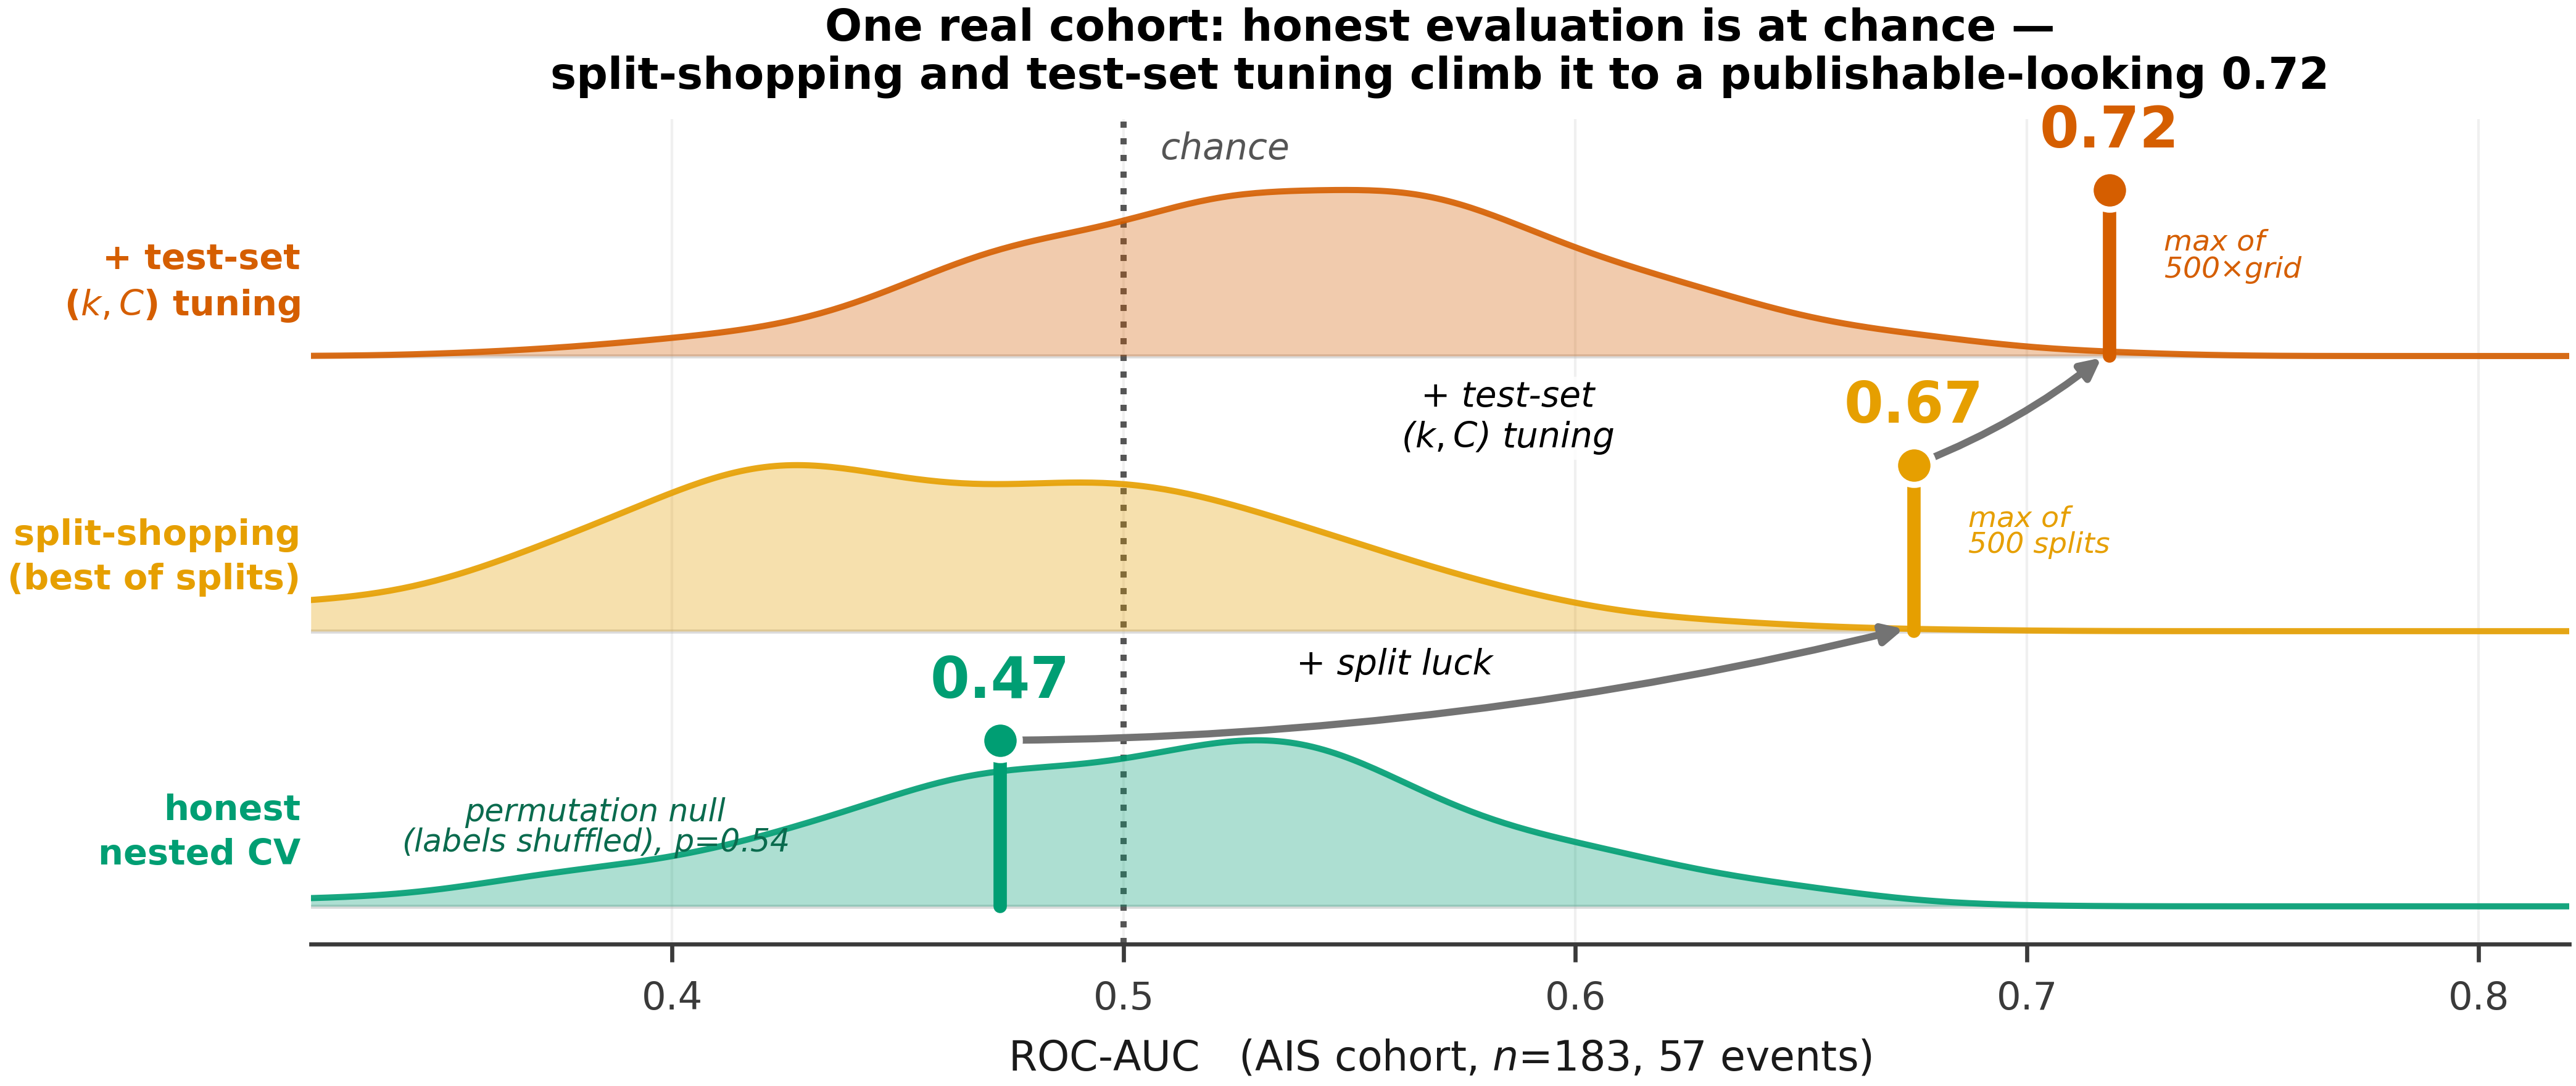
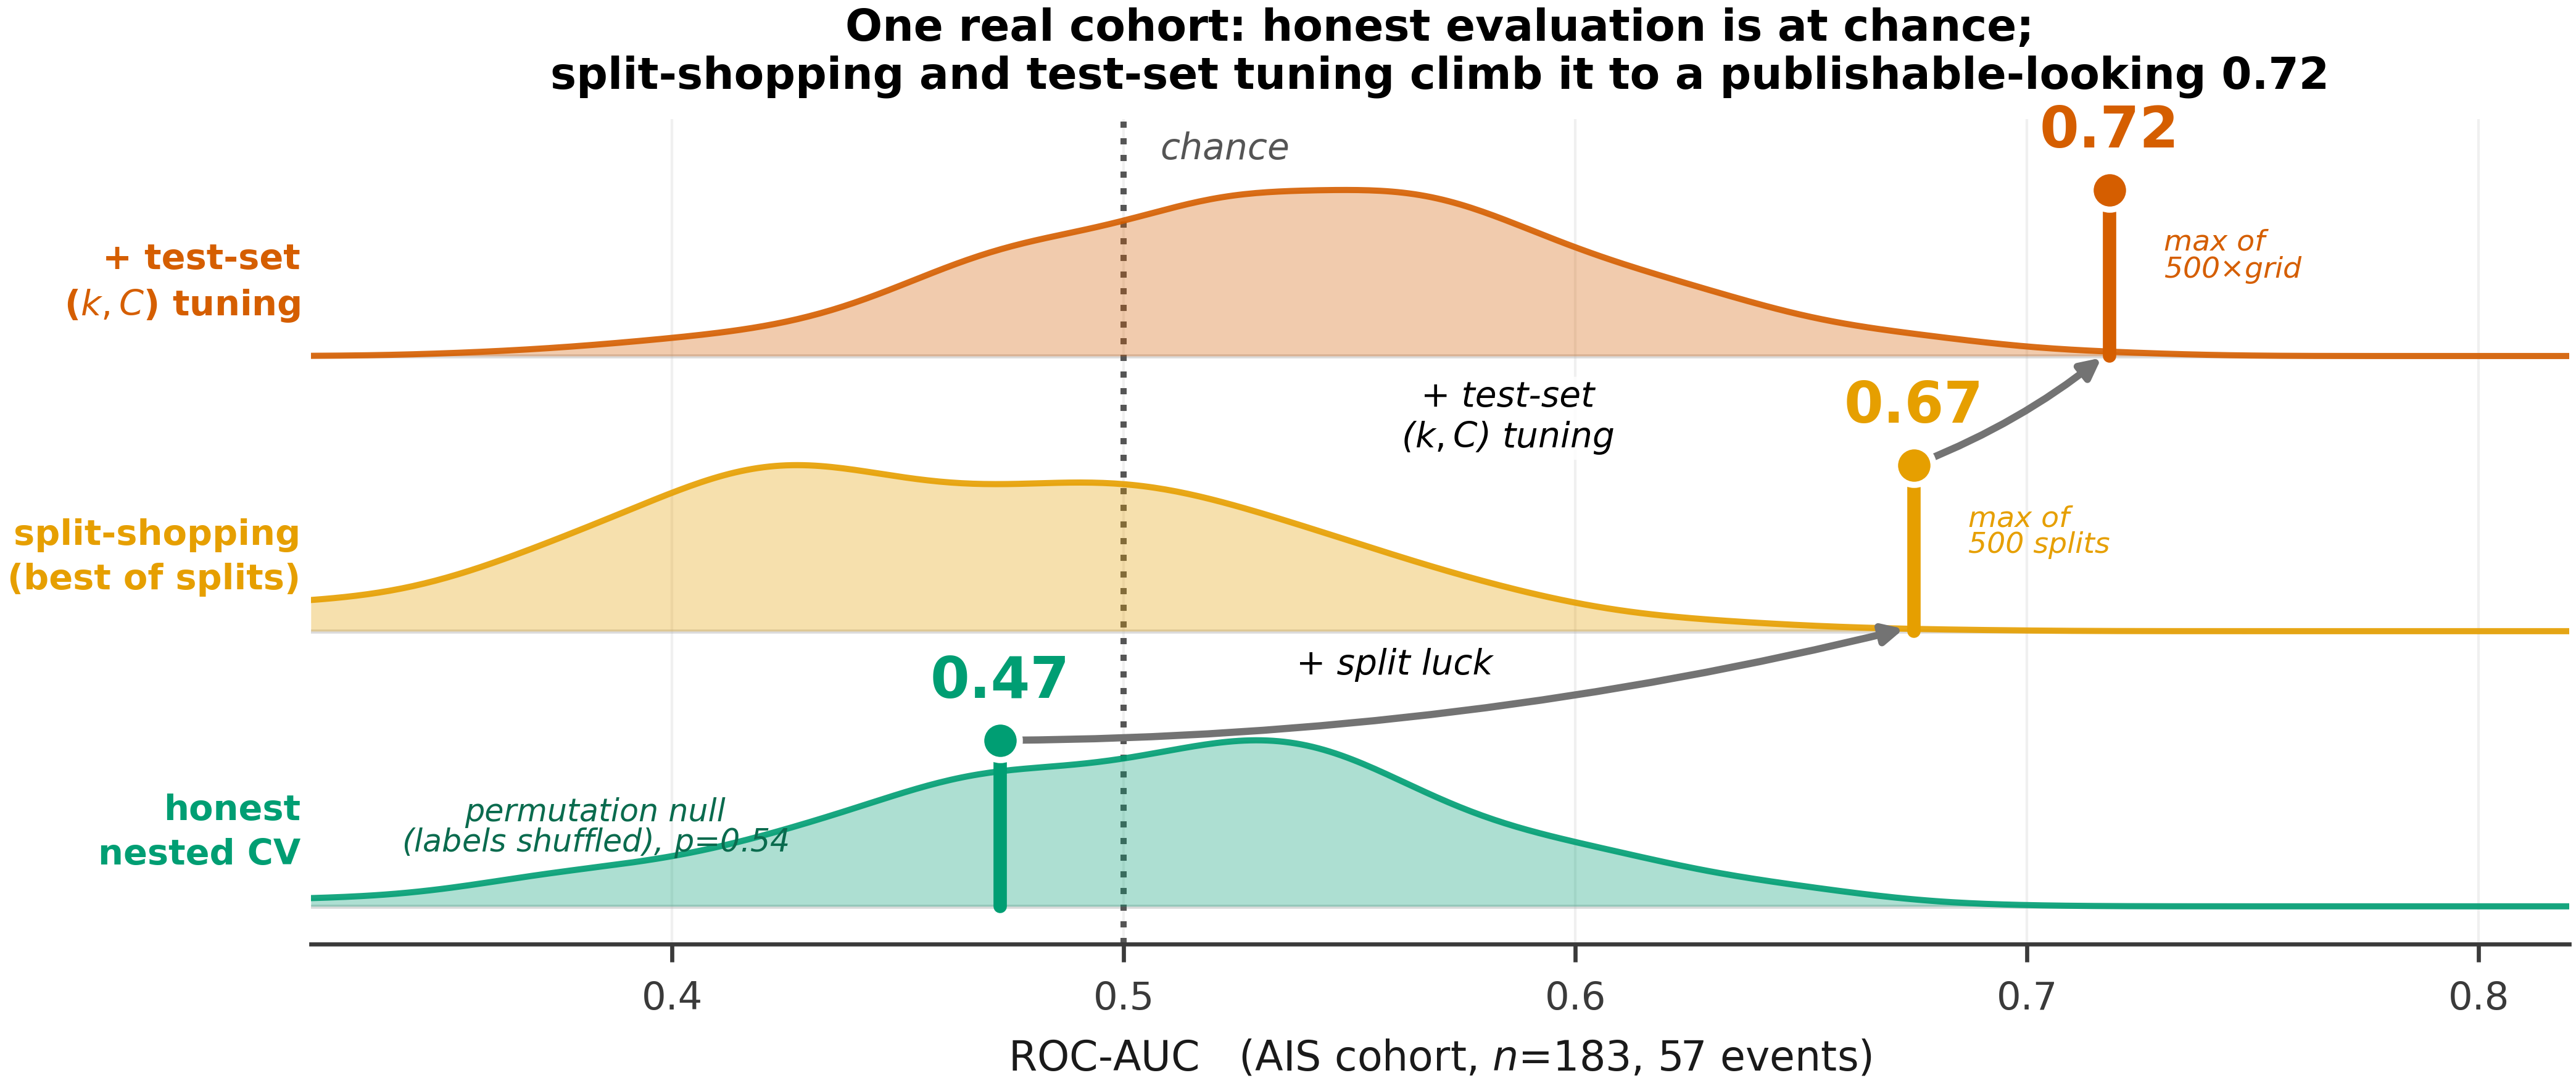
Add random-forest robustness (M1); README/prereg to Pre-Modeling, de-em-dash
- New: run_radmlbench_rf.py + analyze_rf_robustness.py and their outputs
  (radmlbench_sweep_rf.csv, rf_robustness.json). Re-runs the 50-cohort
  optimism sweep with random forests and NO univariate preselection, so
  feature dimensionality is free to drive overfitting: optimism still tracks
  the class-count SE (R2=0.70; 0.55 shared-term-free) while dimensionality
  stays irrelevant (R2=0.08, incremental 0.001); cross-learner r=0.62.
- README: add the RF robustness finding and scripts; retitle Pre-Data to
  Pre-Modeling; reframe the gate as a high-specificity warning; soften the
  AIS baseline comparison to "no better than" (worse kept only as a caveat).
- AIS figure + ais_forensic.py: remove the em-dash from the title.
- Remove all em-dashes from README and PREREGISTRATION prose.

Changed region(s): [[0.3114, 0.0, 0.8096, 0.0625]]

diff --git a/src/run_radmlbench_rf.py b/src/run_radmlbench_rf.py
@@ -1,0 +1,124 @@
+"""
+radMLBench RF robustness check (reviewer M1) -- the load-bearing test of the headline.
+
+Re-runs the optimism sweep with a HIGH-VARIANCE learner (random forest) and, crucially,
+with NO univariate pre-selection, so feature dimensionality CAN exert its effect. If the
+optimism still tracks the class-count standard error and not dimensionality here, the
+"sampling variance, not dimensionality" claim survives beyond the l2-logistic pipeline;
+if dimensionality starts explaining the optimism, the claim must be scoped to regularized
+linear models. Same cohorts, same 70/30 selection protocol, same gap = max_selected - honest.
+
+Outputs results/radmlbench_sweep_rf.csv (mirrors radmlbench_sweep.csv columns).
+Usage: python src/run_radmlbench_rf.py --repeats 3            # all 50 cohorts
+"""
+from __future__ import annotations
+import argparse, csv, sys, time
+from pathlib import Path
+import numpy as np
+import pandas as pd
+from sklearn.pipeline import Pipeline
+from sklearn.impute import SimpleImputer
+from sklearn.feature_selection import VarianceThreshold
+from sklearn.ensemble import RandomForestClassifier
+from sklearn.model_selection import (RepeatedStratifiedKFold, StratifiedKFold,
+                                     GridSearchCV, train_test_split)
+from sklearn.metrics import roc_auc_score
+
+sys.path.insert(0, str(Path(__file__).resolve().parent))
+import run_radmlbench as rr   # reuse load_dataset + radMLBench listing
+
+ROOT = Path(__file__).resolve().parents[1]
+RESULTS = ROOT / "results"
+SEED = 20260625
+N_TREES = 150
+# RF's dimensionality knob is max_features; NO SelectKBest upstream, so all d features are visible
+GRID = {"clf__max_features": ["sqrt", 0.3]}
+
+
+def rf_pipe():
+    return Pipeline([
+        ("impute", SimpleImputer(strategy="median")),
+        ("var", VarianceThreshold(0.0)),
+        ("clf", RandomForestClassifier(n_estimators=N_TREES, class_weight="balanced_subsample",
+                                       random_state=SEED, n_jobs=-1)),
+    ])
+
+
+def honest_rf(X, y, repeats=3):
+    """Leakage-free repeated stratified nested CV, random forest, no feature preselection."""
+    outer = RepeatedStratifiedKFold(n_splits=10, n_repeats=repeats, random_state=SEED)
+    aucs = []
+    for i, (tr, te) in enumerate(outer.split(X, y)):
+        inner = StratifiedKFold(n_splits=3, shuffle=True, random_state=SEED + i)
+        gs = GridSearchCV(rf_pipe(), GRID, scoring="roc_auc", cv=inner, n_jobs=1, refit=True)
+        gs.fit(X[tr], y[tr])
+        aucs.append(roc_auc_score(y[te], gs.predict_proba(X[te])[:, 1]))
+    a = np.array(aucs)
+    return float(a.mean()), float(np.percentile(a, 2.5)), float(np.percentile(a, 97.5))
+
+
+def test_tuned_rf(X, y, n_splits=30):
+    """Selection optimism: max over random 70/30 splits x the RF grid, tuned on the test set."""
+    best = []
+    for s in range(n_splits):
+        Xtr, Xte, ytr, yte = train_test_split(X, y, test_size=0.30, stratify=y, random_state=s)
+        b = 0.0
+        for mf in GRID["clf__max_features"]:
+            p = rf_pipe(); p.set_params(clf__max_features=mf).fit(Xtr, ytr)
+            b = max(b, roc_auc_score(yte, p.predict_proba(Xte)[:, 1]))
+        best.append(b)
+    a = np.array(best)
+    return float(a.max()), float(a.mean())
+
+
+FIELDS = ["dataset", "n", "d", "minority", "epv", "honest_auc", "honest_lo", "honest_hi",
+          "test_selected_max", "test_selected_mean", "optimism_gap"]
+
+
+def run_one(name, repeats):
+    X, y = rr.load_dataset(name)
+    n, d = X.shape
+    minority = int(min(int(y.sum()), n - int(y.sum())))
+    hm, hlo, hhi = honest_rf(X, y, repeats)
+    tmax, tmean = test_tuned_rf(X, y)
+    return {"dataset": name, "n": n, "d": d, "minority": minority, "epv": round(minority / d, 4),
+            "honest_auc": round(hm, 4), "honest_lo": round(hlo, 3), "honest_hi": round(hhi, 3),
+            "test_selected_max": round(tmax, 4), "test_selected_mean": round(tmean, 4),
+            "optimism_gap": round(tmax - hm, 4)}
+
+
+def main():
+    import radMLBench as rb
+    ap = argparse.ArgumentParser()
+    ap.add_argument("--repeats", type=int, default=3)
+    ap.add_argument("--only", type=str, default="")
+    args = ap.parse_args()
+    todo = [s.strip() for s in args.only.split(",") if s.strip()] or rb.listDatasets()
+    RESULTS.mkdir(exist_ok=True)
+    out = RESULTS / "radmlbench_sweep_rf.csv"
+    done = set()
+    if out.exists():
+        try:
+            done = set(pd.read_csv(out)["dataset"].astype(str))
+        except Exception:
+            done = set()
+    pend = [n for n in todo if n not in done]
+    print(f"[rf-sweep] total={len(todo)} done={len(done)} pending={len(pend)}  RF n_estimators={N_TREES}, no feature preselection", flush=True)
+    t0 = time.time()
+    for i, name in enumerate(pend, 1):
+        try:
+            r = run_one(name, args.repeats)
+            with open(out, "a", newline="", encoding="utf-8") as f:
+                w = csv.DictWriter(f, fieldnames=FIELDS)
+                if f.tell() == 0:
+                    w.writeheader()
+                w.writerow(r)
+            print(f"  [{i}/{len(pend)}] {name:26} n={r['n']:>4} d={r['d']:>5} honest={r['honest_auc']:.3f} "
+                  f"max={r['test_selected_max']:.3f} gap={r['optimism_gap']:+.3f}  ({time.time()-t0:.0f}s)", flush=True)
+        except Exception as e:
+            print(f"  [{i}/{len(pend)}] {name:26} FAILED {type(e).__name__}: {e}", flush=True)
+    print(f"[done] {time.time()-t0:.0f}s -> {out}  ({len(pd.read_csv(out))} cohorts)", flush=True)
+
+
+if __name__ == "__main__":
+    main()

diff --git a/src/analyze_rf_robustness.py b/src/analyze_rf_robustness.py
@@ -1,0 +1,72 @@
+"""
+Analyze the RF robustness sweep (reviewer M1). Question: does the class-count sampling-variance
+law -- and the near-irrelevance of feature dimensionality -- survive a HIGH-VARIANCE learner
+(random forest, NO univariate preselection, so dimensionality can act)? Mirrors
+reliability_predictor.py exactly (same Hanley-McNeil SE at the 30%-test working point, same OLS)
+but on results/radmlbench_sweep_rf.csv, and cross-checks against the l2-LR sweep.
+
+Outputs results/rf_robustness.json and a printed summary to quote in the paper.
+Usage: python src/analyze_rf_robustness.py
+"""
+from __future__ import annotations
+import json, math
+from pathlib import Path
+import numpy as np
+import pandas as pd
+
+ROOT = Path(__file__).resolve().parents[1]
+RESULTS = ROOT / "results"
+
+
+def hm_se(auc, n_pos, n_neg):
+    auc = min(max(auc, 1e-6), 1 - 1e-6)
+    q1 = auc / (2 - auc); q2 = 2 * auc * auc / (1 + auc)
+    return math.sqrt(max((auc * (1 - auc) + (n_pos - 1) * (q1 - auc ** 2) + (n_neg - 1) * (q2 - auc ** 2)) / (n_pos * n_neg), 1e-12))
+
+
+def r2(y, X):
+    A = np.column_stack([np.ones(len(y))] + [X[:, i] for i in range(X.shape[1])])
+    b, *_ = np.linalg.lstsq(A, y, rcond=None); yh = A @ b
+    return 1 - ((y - yh) ** 2).sum() / ((y - y.mean()) ** 2).sum(), b
+
+
+def analyze(csv, tag):
+    d = pd.read_csv(csv)
+    gap = (d["test_selected_max"] - d["honest_auc"]).values
+    tpos = np.maximum(1, np.round(0.30 * d["minority"]).astype(int)).values
+    tneg = np.maximum(1, np.round(0.30 * (d["n"] - d["minority"])).astype(int)).values
+    se = np.array([hm_se(a, p, n) for a, p, n in zip(d["honest_auc"], tpos, tneg)])
+    se05 = np.array([hm_se(0.5, p, n) for p, n in zip(tpos, tneg)])
+    R2_se, b = r2(gap, se.reshape(-1, 1)); kappa = float(b[1])
+    R2_se05, _ = r2(gap, se05.reshape(-1, 1))
+    R2_d, _ = r2(gap, np.log10(d["d"].values.astype(float)).reshape(-1, 1))
+    counts = np.column_stack([np.log10(tpos.astype(float)), np.log10(tneg.astype(float))])
+    R2_counts, _ = r2(gap, counts)
+    R2_counts_d, _ = r2(gap, np.column_stack([counts, np.log10(d["d"].values.astype(float))]))
+    resid_sd = float(np.std(gap - b[0] - kappa * se, ddof=2))
+    summary = {"tag": tag, "n_cohorts": int(len(d)), "mean_gap": round(float(gap.mean()), 3),
+               "R2_SE_working_point": round(R2_se, 3), "R2_SE_a0.5_no_shared_term": round(R2_se05, 3),
+               "R2_log_dimensionality": round(R2_d, 3),
+               "R2_two_counts": round(R2_counts, 3), "R2_two_counts_plus_logd": round(R2_counts_d, 3),
+               "incremental_R2_from_dimensionality": round(R2_counts_d - R2_counts, 3),
+               "kappa_fitted": round(kappa, 3), "residual_sd": round(resid_sd, 3)}
+    return summary, d
+
+
+def main():
+    rf, drf = analyze(RESULTS / "radmlbench_sweep_rf.csv", "RF (no preselection)")
+    lr, dlr = analyze(RESULTS / "radmlbench_sweep.csv", "l2-LR (paper)")
+    # cross-cohort agreement: do the two learners flag the same cohorts as optimistic?
+    grf = drf[["dataset"]].copy(); grf["gap_rf"] = (drf["test_selected_max"] - drf["honest_auc"]).values
+    glr = dlr[["dataset"]].copy(); glr["gap_lr"] = (dlr["test_selected_max"] - dlr["honest_auc"]).values
+    m = pd.merge(grf, glr, on="dataset")
+    r_cross = float(np.corrcoef(m["gap_rf"], m["gap_lr"])[0, 1]) if len(m) > 2 else float("nan")
+    out = {"RF": rf, "LR": lr,
+           "gap_rf_vs_gap_lr_pearson_r": round(r_cross, 3), "n_matched_cohorts": int(len(m))}
+    RESULTS.mkdir(exist_ok=True)
+    (RESULTS / "rf_robustness.json").write_text(json.dumps(out, indent=2, ensure_ascii=False), encoding="utf-8")
+    print(json.dumps(out, indent=2, ensure_ascii=False))
+
+
+if __name__ == "__main__":
+    main()

diff --git a/src/ais_forensic.py b/src/ais_forensic.py
@@ -159,7 +159,7 @@ def main():
     ax.set_xlabel("ROC-AUC   (AIS cohort, $n$=183, 57 events)")
     ax.spines["left"].set_visible(False)
     ax.grid(False); ax.grid(axis="x", alpha=0.18, zorder=0)
-    ax.set_title("One real cohort: honest evaluation is at chance —\nsplit-shopping and test-set "
+    ax.set_title("One real cohort: honest evaluation is at chance;\nsplit-shopping and test-set "
                  "tuning climb it to a publishable-looking %.2f" % top, fontsize=8.5, pad=6, linespacing=1.15)
     fig.tight_layout()
     fig.savefig(FIGS / "AIS_forensic.png")

diff --git a/README.md b/README.md
@@ -1,34 +1,38 @@
-# RELY — Reliability of Evaluation for small-sample radiomics
+# RELY: Reliability of Evaluation for small-sample radiomics
 
-**Sampling Variance, Not Dimensionality: A Pre-Data Reliability Gate for Small-Sample Radiomics Evaluation.**
+**Sampling Variance, Not Dimensionality: A Pre-Modeling Reliability Gate for Small-Sample Radiomics Evaluation.**
 
-RELY is an open toolkit and benchmark for the question every small-sample radiomics study should ask *before* training a model: **will the resulting AUC be believable?** It shows that the optimism in reported radiomics performance is a **sampling-variance** phenomenon — a closed-form function of the class counts — and is essentially **unrelated to feature dimensionality**. So the field's reflexive lever (reduce features) is the wrong one for evaluation reliability; only more data, especially more minority-class events, moves the quantity that matters.
+RELY is an open toolkit and benchmark for the question every small-sample radiomics study should ask *before* training a model: **will the resulting AUC be believable?** It shows that the optimism in reported radiomics performance is a **sampling-variance** phenomenon, a closed-form function of the class counts, and is essentially **unrelated to feature dimensionality**. So the field's reflexive lever (reduce features) is the wrong one for evaluation reliability; only more data, especially more minority-class events, moves the quantity that matters.
 
 > **Double-blind:** this repository contains **no author or institution identifiers**. Prior related write-ups are cited in the third person. (De-anonymize on publication.)
 
-> **Public release:** this is a curated **code + benchmark** release. The single-center patient feature table for the AIS case study is **not distributed** (privacy/provenance); its outputs ship only as cached figures and aggregate `results/`. The load-bearing evidence — the 50-cohort benchmark — reproduces fully from public data via `radMLBench`.
+> **Public release:** this is a curated **code + benchmark** release. The single-center patient feature table for the AIS case study is **not distributed** (privacy/provenance); its outputs ship only as cached figures and aggregate `results/`. The load-bearing evidence, the 50-cohort benchmark, reproduces fully from public data via `radMLBench`.
 
 ## What RELY gives you
-- **A reliability calculator** (`src/reliability_predictor.py`) — from class counts (and a selection budget), the expected reported optimism, or the minority events needed to bound it; validated across 50 real cohorts.
-- **A pre-data evaluability gate** (`src/screening_gate.py`) — from class counts alone, before any modeling, flags cohorts whose honest evaluation will be indistinguishable from chance (ROC-AUC **0.83**; out-of-sample operating point spec 0.86 / sens 0.56).
-- **An honest-evaluation audit** (`src/honest_eval.py`) — leakage-free repeated stratified nested CV, Nadeau–Bengio corrected variance, permutation null, the optimism ladder.
+- **A reliability calculator** (`src/reliability_predictor.py`): from class counts (and a selection budget), the expected reported optimism, or the minority events needed to bound it; validated across 50 real cohorts.
+- **A pre-modeling evaluability gate** (`src/screening_gate.py`): from class counts alone, before any modeling, flags cohorts whose honest evaluation will be indistinguishable from chance. It is a high-specificity warning (ROC-AUC **0.83**; out-of-sample operating point spec 0.86 / sens 0.56), so it misses about 44% of un-evaluable cohorts and a non-flag is not a clearance.
+- **A high-variance-learner robustness check** (`src/run_radmlbench_rf.py`, `src/analyze_rf_robustness.py`): re-runs the whole sweep with random forests and no univariate preselection, confirming the dimensionality-irrelevance is not specific to the regularized linear pipeline.
+- **An honest-evaluation audit** (`src/honest_eval.py`): leakage-free repeated stratified nested CV, Nadeau-Bengio corrected variance, permutation null, the optimism ladder.
 - **A 50-cohort benchmark harness** (`src/run_radmlbench.py`) over radMLBench.
-- **A pre-registration template** (`PREREGISTRATION.md`) — freeze the primary model, metric, feature selection, and analysis *before* results; aligned with PROBAST and TRIPOD+AI.
+- **A pre-registration template** (`PREREGISTRATION.md`): freeze the primary model, metric, feature selection, and analysis *before* results; aligned with PROBAST and TRIPOD+AI.
 
 ## Key findings (all regenerated by this code)
-- **Optimism is predicted by sampling variance, not dimensionality.** Across **50** real radiomics cohorts, the cherry-pick optimism is predicted by the closed-form Hanley–McNeil AUC standard error, **R²=0.73** (0.65 at a fixed null working point that shares nothing with the honest estimate; LOSO [0.71,0.79]; cluster-bootstrap [0.57,0.86]) — far above **feature dimensionality (R²=0.09)**.
-- **Within-cohort controlled identification.** Holding the feature space fixed, the optimism ceiling rises whenever *either* class count shrinks (fix-n vary-events r=−0.60; fix-events vary-n r=−0.55; honest flat) → joint sampling variance, not minority events alone, not dimensionality. (This refuted an earlier "event-count" framing.)
-- **Pre-data gate works.** ROC-AUC 0.83 (LOSO [0.82,0.85]) predicting "honest CI covers chance" from class counts alone.
-- **Reliability calculator.** Bounding expected optimism at 0.10 needs ≈214 minority events (prevalence 0.3); at 0.05, ≈847 — thresholds most studies never approach.
-- **AIS forensic case study.** A real single-center acute ischemic stroke (AIS) cohort (n=183, 57 events): honest nested-CV AUC **0.47** (permutation **p=0.54**), yet a cherry-picked split reaches **0.67**; the 1004-feature model is significantly *worse* than a 5-feature age+volume baseline (paired NB-corrected **p=0.035**). It is the toolkit's end-to-end worked example, not the load-bearing evidence (that is the 50-cohort benchmark).
+- **Optimism is predicted by sampling variance, not dimensionality.** Across **50** real radiomics cohorts, the cherry-pick optimism is predicted by the closed-form Hanley-McNeil AUC standard error, **R²=0.73** (0.65 at a fixed null working point that shares nothing with the honest estimate; LOSO [0.71,0.79]; cluster-bootstrap [0.57,0.86]), far above **feature dimensionality (R²=0.09)**.
+- **Robust to a high-variance learner.** Re-running the sweep with random forests and no univariate preselection (dimensionality free to drive overfitting) reproduces the structure: optimism still tracks the class-count SE (**R²=0.70**; 0.55 shared-term-free) while dimensionality stays irrelevant (**R²=0.08**, incremental **0.001** over the class counts); the two learners' per-cohort optimism correlates **r=0.62**.
+- **Within-cohort controlled identification.** Holding the feature space fixed, the optimism ceiling rises whenever *either* class count shrinks (fix-n vary-events r=-0.60; fix-events vary-n r=-0.55; honest flat), so the driver is joint sampling variance, not minority events alone and not dimensionality. (This refuted an earlier "event-count" framing.)
+- **Pre-modeling gate works.** ROC-AUC 0.83 (LOSO [0.82,0.85]) predicting "honest CI covers chance" from class counts alone, as a high-specificity warning.
+- **Reliability calculator.** Bounding expected optimism at 0.10 needs about 214 minority events (prevalence 0.3); at 0.05, about 847, thresholds most studies never approach.
+- **AIS worked example.** A real single-center acute ischemic stroke (AIS) cohort (n=183, 57 events): honest nested-CV AUC **0.47** (permutation **p=0.54**), yet a cherry-picked split reaches **0.67**; the 1004-feature model is no better than a 5-feature age+volume baseline (a paired Nadeau-Bengio-corrected test even ranks it modestly worse, p=0.035, but the marginal intervals overlap and we do not lean on a single small cohort). It is the toolkit's end-to-end worked example, not the load-bearing evidence (that is the 50-cohort benchmark).
 
 ## Reproduce
 ```bash
 pip install -r requirements.txt           # Python 3.12; radMLBench; PyRadiomics not needed
 python src/run_radmlbench.py --all         # 50-cohort optimism sweep -> results/radmlbench_sweep.csv
 python src/reliability_predictor.py        # the predictor + calculator (Fig: reliability_validation)
-python src/screening_gate.py               # the pre-data gate (Fig: screening_gate_roc)
+python src/screening_gate.py               # the pre-modeling gate (Fig: screening_gate_roc)
 python src/r_e.py --cohorts 4 --K 200 --reps 3   # within-cohort identification (Fig: C1_identify)
+python src/run_radmlbench_rf.py            # random-forest robustness sweep -> results/radmlbench_sweep_rf.csv
+python src/analyze_rf_robustness.py        # RF vs linear robustness summary -> results/rf_robustness.json
 ```
 All randomness is seeded (master seed 20260625).
 
@@ -36,7 +40,7 @@ The AIS worked-example scripts (`honest_eval.py`, `ais_forensic.py`, `baselines.
 
 ## Data & scope
 - The **AIS cohort** feature table is **not included** (single-center, patient-derived; original images/masks/extraction code and clinical records are lost). Only its aggregate outputs appear here (`results/`, `figures/`).
-- External cohorts via **radMLBench** (`pip install radMLBench`, public, real radiomics) — the load-bearing 50-cohort evidence.
+- External cohorts via **radMLBench** (`pip install radMLBench`, public, real radiomics), the load-bearing 50-cohort evidence.
 
 ## License / use
-Research and educational use. Public datasets retain their own licenses. Intended use: methodology audit / study planning — **not** a clinical tool.
+Research and educational use. Public datasets retain their own licenses. Intended use: methodology audit / study planning, **not** a clinical tool.

diff --git a/PREREGISTRATION.md b/PREREGISTRATION.md
@@ -1,4 +1,4 @@
-# Pre-registration template — small-sample radiomics evaluation
+# Pre-registration template for small-sample radiomics evaluation
 
 A fill-in protocol to **freeze the evaluation before you see results**: the primary model, primary metric, feature-selection rule, optimism-gap definition, and statistics. Pre-registration is the strongest guard against the selection optimism this toolkit quantifies. It aligns with the open-science / pre-registration items of **TRIPOD+AI** (Collins et al., *BMJ* 2024;385:e078378) and the risk-of-bias domains of **PROBAST** (Moons et al., *Ann Intern Med* 2019;170:W1–W33), whose dominant controllable domain in small-sample radiomics is **Analysis**.
 
@@ -10,10 +10,10 @@ A fill-in protocol to **freeze the evaluation before you see results**: the prim
 - Outcome: `<define>`; positive class = `<define>`. State the class counts `n₊` (events) and `n₋`.
 - If the label's provenance is uncertain, state it here and treat it as a limitation (it can only bias the honest estimate toward chance, not manufacture signal).
 
-## 2. Single primary model (confirmatory) — one, fixed in advance
+## 2. Single primary model (confirmatory): one, fixed in advance
 Leakage-free pipeline; every `fit` happens inside the inner **training** folds only:
 `Impute(median) → VarianceThreshold → StandardScaler → SelectKBest(f_classif, k) → L2-LogisticRegression(class_weight="balanced")`
-- Inner k-fold tuning grid: `k ∈ {…}`, `C ∈ {…}` — pre-specify the exact values.
+- Inner k-fold tuning grid: `k ∈ {…}`, `C ∈ {…}`; pre-specify the exact values.
 - Imbalance: `class_weight="balanced"`; avoid resampling (e.g. SMOTE) that distorts calibration.
 - Any other learner / feature count / modality subset is **secondary/exploratory**.
 
@@ -29,17 +29,17 @@ Brier, ECE / calibration, sensitivity–specificity, and class-conditional confo
 - In-fold only (`SelectKBest` inside each training fold); compute any selection-frequency/stability statistics on training folds. **Never inspect the outer test fold.**
 
 ## 6. Optimism-gap definition (pre-specify)
-Same data, same feature pool, same model family — vary **only the evaluation protocol**:
+Same data, same feature pool, same model family; vary **only the evaluation protocol**:
 - **Honest** = nested-CV AUC (the primary metric above).
 - **Optimistic** = the maximum over many random train/test splits crossed with the tuning grid, with model/threshold chosen on the test set (a deliberate bad-practice arm, labeled as such).
 - **Reported optimism `Δ = max selected test-AUC − honest AUC`.**
 
 ## 7. Statistical tests
-- Primary model vs a parsimonious clinical baseline: paired test on **per-fold AUC differences** (Nadeau–Bengio corrected) — **not** DeLong on pooled-CV predictions.
+- Primary model vs a parsimonious clinical baseline: paired test on **per-fold AUC differences** (Nadeau–Bengio corrected), **not** DeLong on pooled-CV predictions.
 - Label-permutation null ≥ 1000 draws, **re-running the entire pipeline (including feature selection) on each draw**; report the p-value.
 - Coverage / proportion estimates: binomial (Wilson) confidence intervals.
 
-## 8. Pre-data evaluability (decide before modeling)
+## 8. Pre-modeling evaluability (decide before modeling)
 Before any modeling, run the RELY **gate** and **calculator** on the class counts alone:
 - The gate flags whether the cohort can be evaluated honestly at all (whether the honest CI is expected to cover chance).
 - The calculator returns the minority-event target needed to bound the expected reported optimism at your tolerance `δ`.
@@ -53,4 +53,4 @@ Fixed master seed (derive child seeds); environment pinned in `requirements.txt`
 
 ---
 
-*Scope note.* This is a methodology / study-planning template, not a clinical tool. Participant, predictor, and outcome (PROBAST) domains should be reported honestly; where data provenance is limited, state it as a limitation. The template targets the **Analysis** domain — data leakage and optimistic evaluation selection — which is the bias this toolkit measures and corrects.
+*Scope note.* This is a methodology / study-planning template, not a clinical tool. Participant, predictor, and outcome (PROBAST) domains should be reported honestly; where data provenance is limited, state it as a limitation. The template targets the **Analysis** domain (data leakage and optimistic evaluation selection), which is the bias this toolkit measures and corrects.